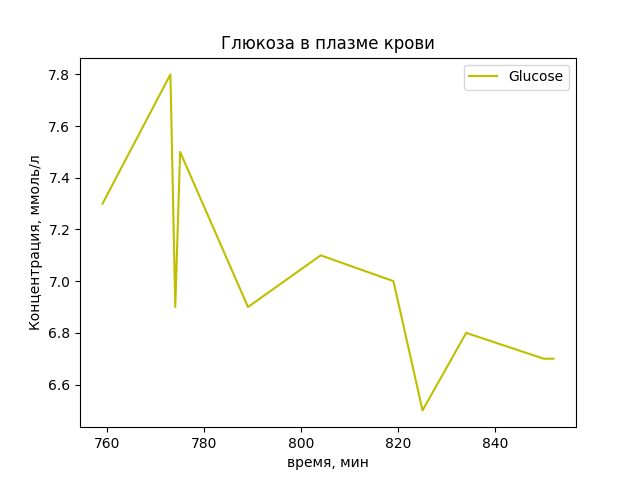
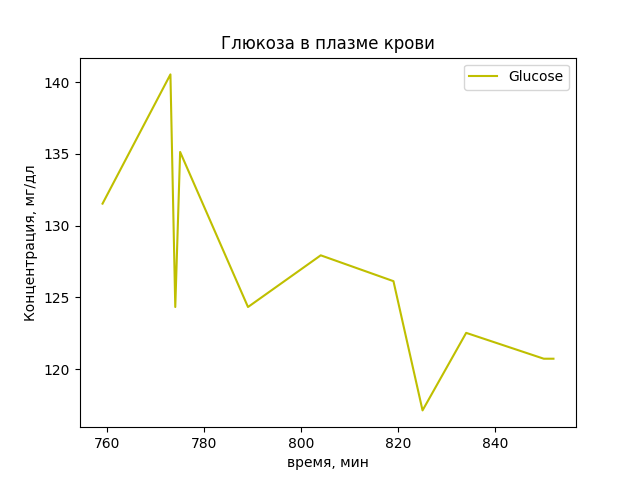
Added new stats

diff --git a/analytics/analytics.py b/analytics/analytics.py
@@ -108,9 +108,9 @@ def plot_glucose(glucose_info, show_plot=True):
             t_prev = t
 
         if show_plot:
-            plt.plot(final_time_list, final_glucose_list, label='Glucose', color='y')
+            plt.plot(final_time_list, np.asarray(final_glucose_list) * 18.0182, label='Glucose', color='y')
             plt.title('Глюкоза в плазме крови')
-            plt.ylabel('Концентрация, ммоль/л')
+            plt.ylabel('Концентрация, мг/дл')
             plt.xlabel('время, мин')
             plt.legend()
             # plt.show()
@@ -193,7 +193,9 @@ def get_glucose_info():
 
 # Получает и сохраняет в словарь данные о ЧСС из файла
 def get_heart_rate_info():
-    average_hrs = []      
+    average_hrs = []
+    max_hrs = []
+    min_hrs = []      
     heart_rate_info = []   
     for training in TRAININGS.items():
         required_date = training[1]['date']
@@ -226,6 +228,8 @@ def get_heart_rate_info():
                 heart_rate_list.append((float(heart_rate), int(time)))
 
             average_hrs.append(hr_accum / hr_samples)
+            max_hrs.append(max(heart_rate_list)[0])
+            min_hrs.append(min(heart_rate_list)[0])
 
             return_dict = {
                 'name': training[0],
@@ -233,7 +237,7 @@ def get_heart_rate_info():
                 'hr_list': heart_rate_list 
             }
             heart_rate_info.append(return_dict)
-    return heart_rate_info, average_hrs
+    return heart_rate_info, average_hrs, max_hrs, min_hrs
 
 
 # Получает продолжительность измерений
@@ -258,7 +262,7 @@ if __name__ == "__main__":
     timespans_bg, start_times_bg, finish_times_bg = get_timespans(time_values)
     print(timespans_bg[0])
 
-    heart_rate_info, average_hrs = get_heart_rate_info()
+    heart_rate_info, average_hrs, max_hrs, min_hrs = get_heart_rate_info()
     print('Average HRs:', average_hrs)
     hr_values, time_values = plot_hr(heart_rate_info, True)
 
@@ -315,6 +319,12 @@ if __name__ == "__main__":
             ex_start = ex_start_times[i]
             ex_finish = ex_finish_times[i]
             ex_hr = average_hrs[i]
+
+            print(f'###### Traning {i} info:')
+            print(f'### Max HR {max_hrs[i]}')
+            print(f'### Min HR {min_hrs[i]}')
+            print(f'### Avg HR {ex_hr}')
+
             HRb = 60
             file.write(f'{time},{samples},{BW},{D},{Gpb},{Gp0},{Djins},{IIRb},{meal_time},{injection_time},{ex_on},{ex_start},{ex_finish},{ex_hr},{HRb}\n')
          

diff --git a/model.py b/model.py
@@ -216,6 +216,9 @@ def test_on_text_data():
             ex_hr=float(line[13]),  # ЧСС во время упражнения
             HRb=float(line[14])  # базальное значение ЧСС
         )
+        print(f'### Training length: {int(line[12]) - int(line[11])} min')
+        print(f'### Start glucose: {float(line[5]) * MG_DL_TO_MMOL_L_CONVENTION_FACTOR} mg/dl')
+
         real = real.split(',')
         food = None
         insulin = None
